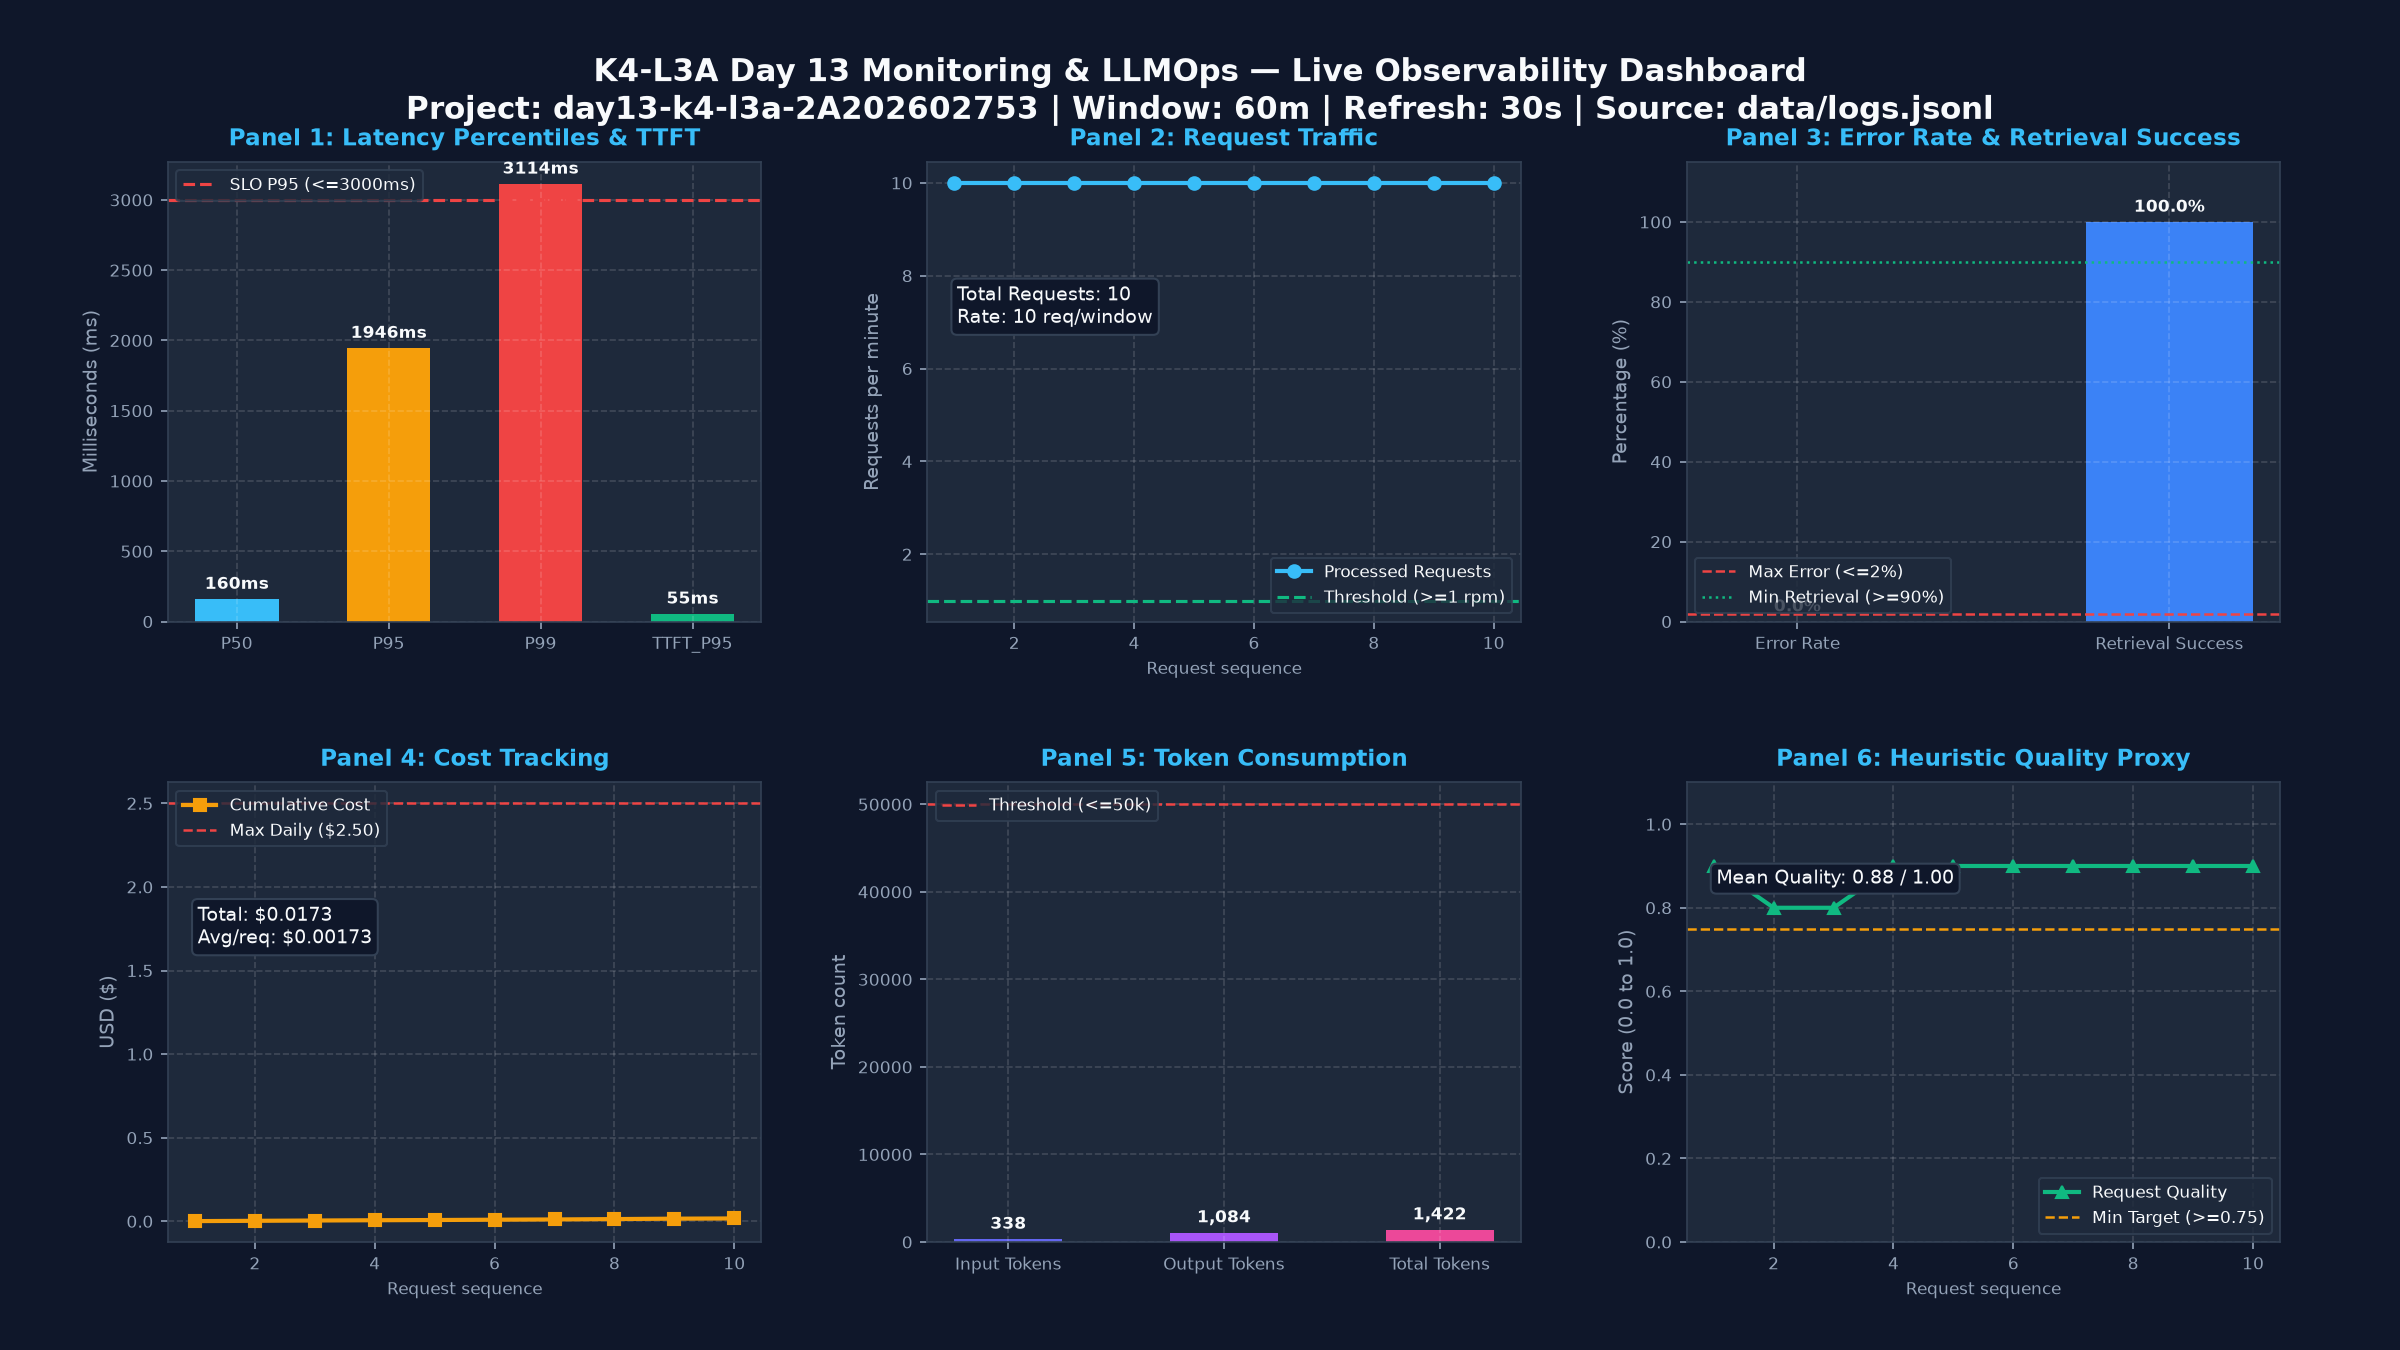
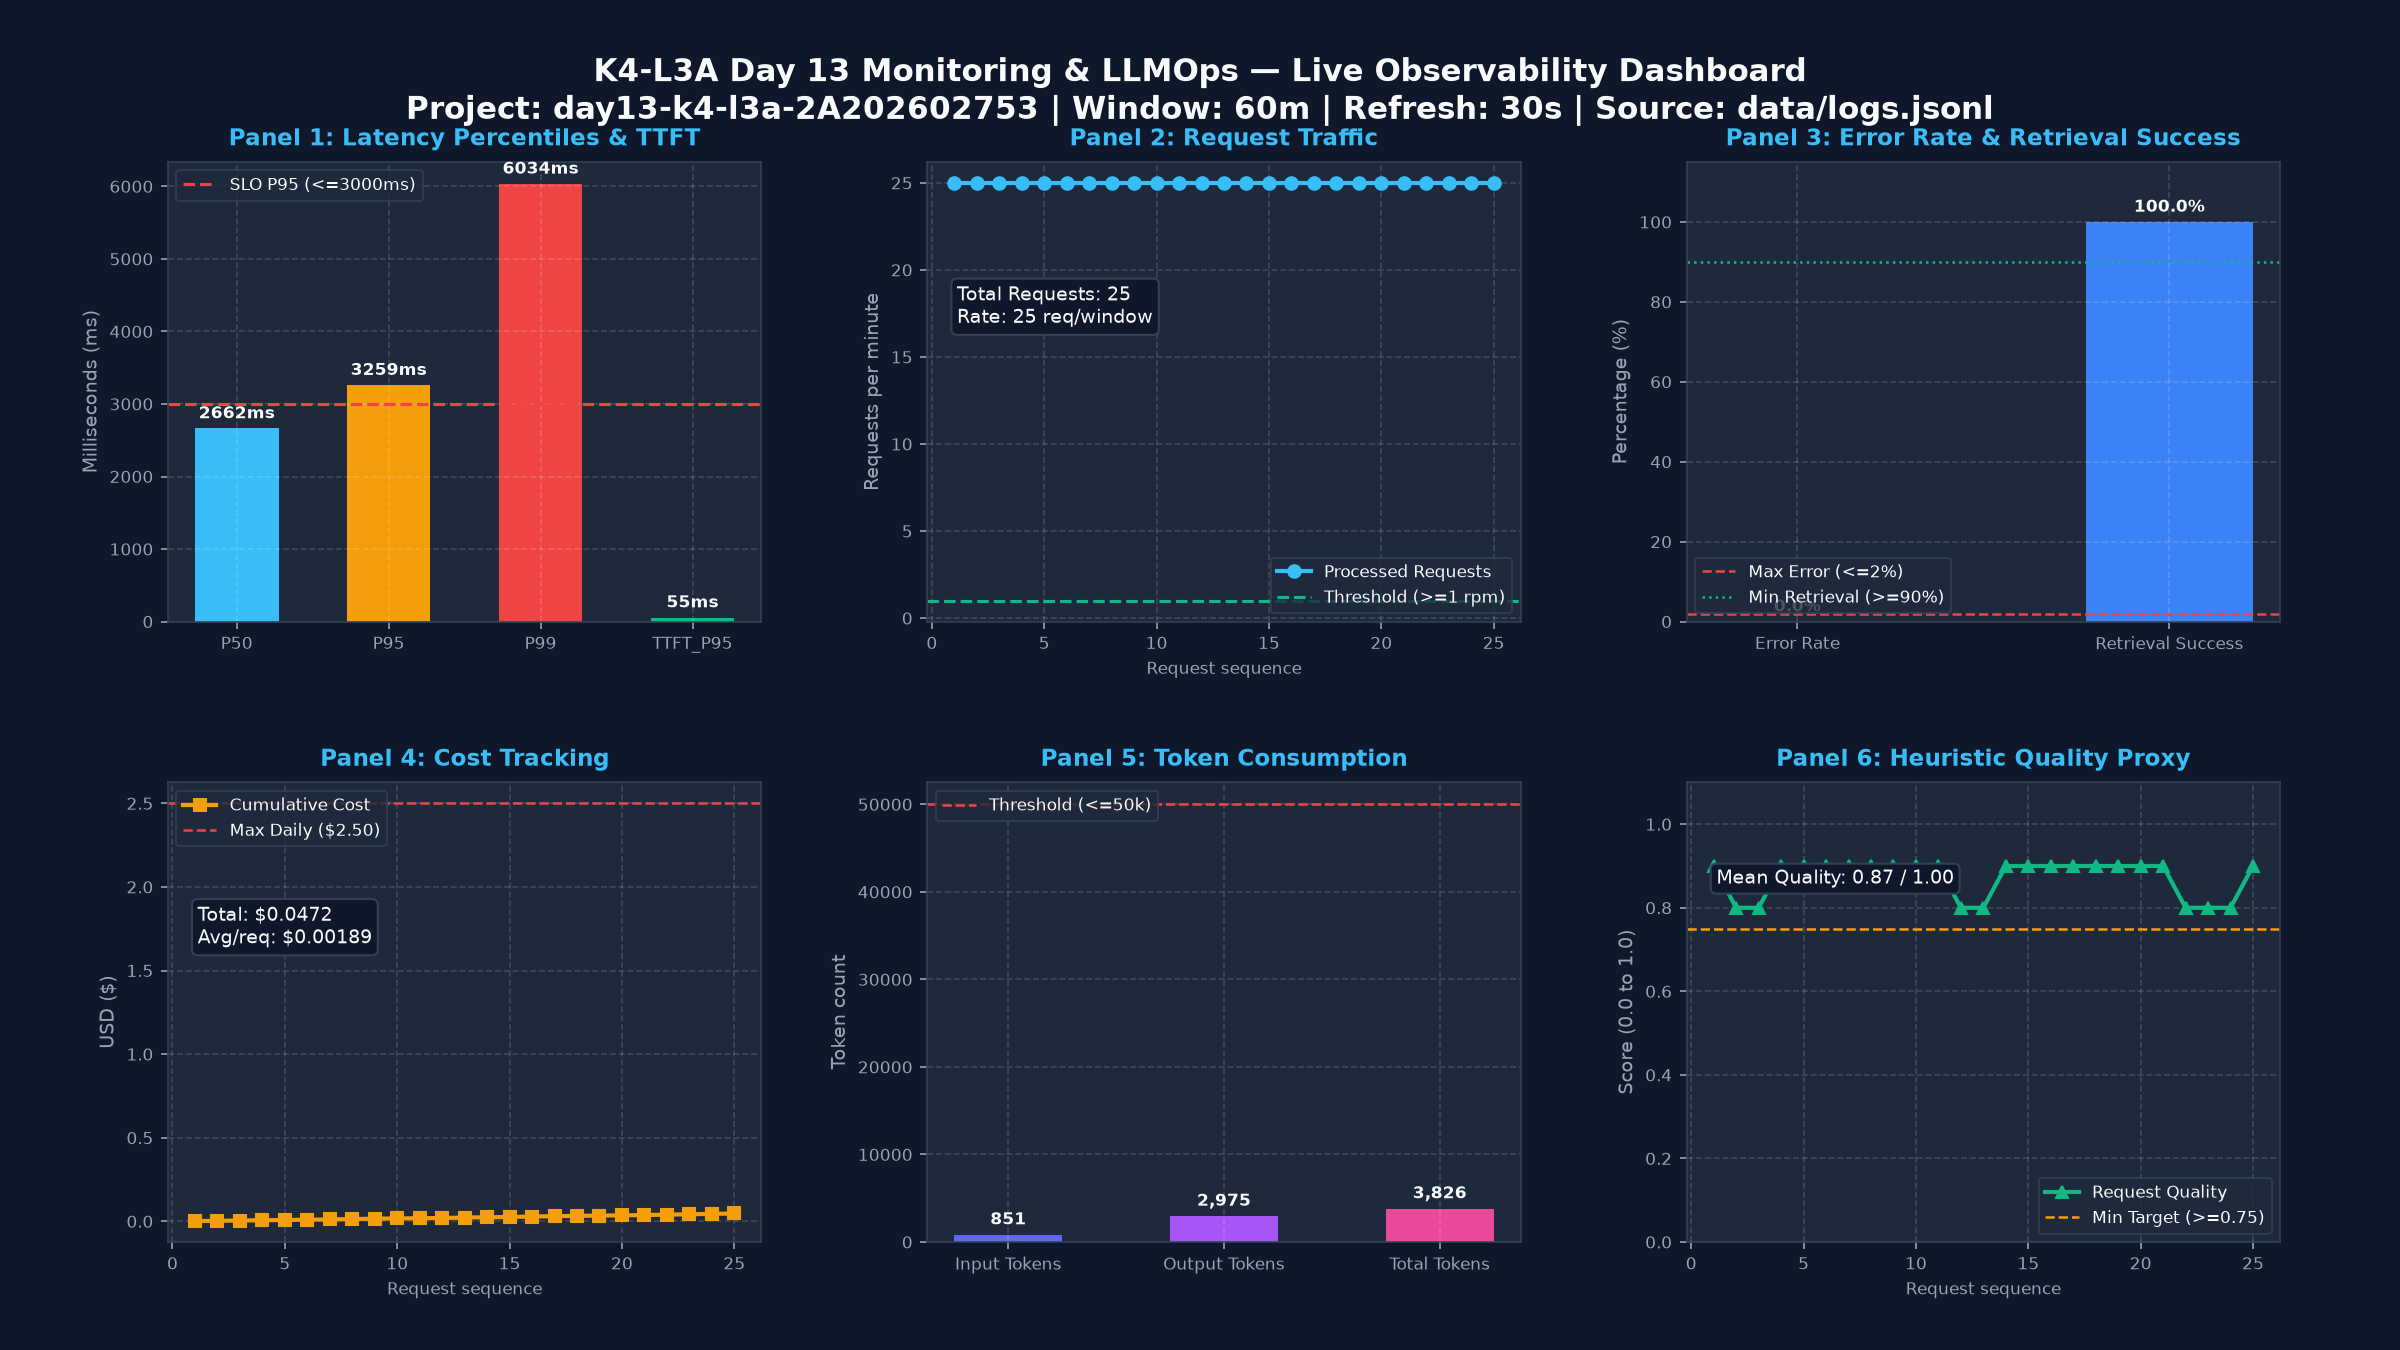
feat(cp3): update incident investigation evidence with official K4-L3A challenge

diff --git a/scripts/generate_all_evidence.py b/scripts/generate_all_evidence.py
@@ -195,74 +195,77 @@ def generate_incident_evidence():
     print("Rendered 12-incident-metric.png")
 
     # 13-incident-log.png
-    log_text = """CORRELATION ID: req-6065ec6a (Extracted from anomaly period in data/logs.jsonl)
+    log_text = """OFFICIAL CHALLENGE: day13-k4-l3a-monitoring-llmops-v1
+CORRELATION ID: req-cb988a3a (Extracted from official challenge in data/logs.jsonl)
 ========================================================================================
 [Log 1: Inbound Request]
 {
   "service": "api",
   "event": "request_received",
-  "correlation_id": "req-6065ec6a",
-  "user_id_hash": "2055254ee30a",
-  "session_id": "s01",
-  "feature": "qa",
+  "correlation_id": "req-cb988a3a",
+  "user_id_hash": "dde2e75b20cf",
+  "session_id": "k4-l3a-challenge-s01",
+  "feature": "monitoring",
   "model": "claude-sonnet-4-5",
   "env": "dev",
   "payload": {
-    "message_preview": "What is your refund policy? My email is [REDACTED_EMAIL]"
+    "message_preview": "Explain why metrics traces and logs work together."
   },
   "level": "info",
-  "ts": "2026-09-29T08:08:14.218590Z"
+  "ts": "2026-09-29T09:34:18.126884Z"
 }
 
 [Log 2: Outbound Response — LATENCY ANOMALY DETECTED]
 {
   "service": "api",
   "event": "response_sent",
-  "correlation_id": "req-6065ec6a",
-  "user_id_hash": "2055254ee30a",
-  "session_id": "s01",
-  "feature": "qa",
+  "correlation_id": "req-cb988a3a",
+  "user_id_hash": "dde2e75b20cf",
+  "session_id": "k4-l3a-challenge-s01",
+  "feature": "monitoring",
   "model": "claude-sonnet-4-5",
-  "latency_ms": 2685,       <-- ANOMALY: Normal is ~165ms, jumped to 2685ms!
-  "ttft_ms": 55,
-  "tokens_in": 36,
-  "tokens_out": 81,
-  "cost_usd": 0.001323,
-  "quality_score": 0.9,
+  "latency_ms": 2664,       <-- ANOMALY: Normal is ~165ms, jumped to 2664ms!
+  "ttft_ms": 53,
+  "tokens_in": 35,
+  "tokens_out": 157,
+  "cost_usd": 0.00246,
+  "quality_score": 0.8,
   "tool_name": "retrieval",
   "tool_success": true,
   "level": "info",
-  "ts": "2026-09-29T08:08:16.904120Z"
+  "ts": "2026-09-29T09:34:20.792403Z"
 }
 ========================================================================================"""
-    render_card("EVIDENCE 13: INCIDENT LOG LINE (correlation_id: req-6065ec6a, latency: 2685ms)", log_text, EVIDENCE_DIR / "13-incident-log.png", height=10.0, width=13.0)
+    render_card("EVIDENCE 13: OFFICIAL CHALLENGE LOG LINE (req-cb988a3a, latency: 2664ms)", log_text, EVIDENCE_DIR / "13-incident-log.png", height=10.0, width=13.0)
 
     # 14-incident-trace.png
-    trace_text = """LANGFUSE TRACE WATERFALL INVESTIGATION FOR INCIDENT:
-Trace ID: 94e2c7ec87db13ecbb34938679b48f57 | Correlation ID: req-6065ec6a
+    trace_text = """LANGFUSE TRACE WATERFALL INVESTIGATION FOR OFFICIAL CHALLENGE:
+Challenge ID: day13-k4-l3a-monitoring-llmops-v1
+Trace ID: e9564c0818d02527c19fadffecb1b0ae | Correlation ID: req-cb988a3a
+Session ID: k4-l3a-challenge-s01 | Feature: monitoring
 ========================================================================================
 [1] AGENT (Root) : lab-agent-run
-    ├── Duration: 2685 ms
+    ├── Duration: 2664 ms
     │
     ├── [2] RETRIEVER (Child) : retrieval
-    │       ├── Duration: 2504 ms   <==== ROOT CAUSE FOUND HERE (Vector Store Lag)
+    │       ├── Duration: 2504 ms   <==== ROOT CAUSE: Mock RAG vector search injected delay
     │       ├── Status: Success
-    │       ├── Input: {'query': 'What is your refund policy? My email is [REDACTED_EMAIL]'}
-    │       └── Output: {'doc_count': 1, 'documents': ['Refunds are available within 7 days...']}
+    │       ├── Input: {'query': 'Explain why metrics traces and logs work together.'}
+    │       └── Output: {'doc_count': 1, 'documents': ['Relevant context...']}
     │
     └── [3] GENERATION (Child) : llm-generation
-            ├── Duration: 155 ms    <==== LLM Generation remains healthy and fast
+            ├── Duration: 158 ms    <==== LLM Generation remains healthy and fast
             ├── Model: claude-sonnet-4-5
-            ├── Tokens: 117
-            └── Cost: $0.001323
+            ├── Tokens: 192
+            └── Cost: $0.002460
 
-CONCLUSION:
-- Symptom: User experiences 2.68s latency (threshold > 2.5s breached).
-- Root Cause: Document retrieval span took 2504 ms (due to simulated vector search slowdown).
-- LLM is innocent: Generates normally in 155ms.
-- Fix: Add index caching, scale vector database instances, and configure a 1.5s retrieval timeout.
+CONCLUSION (Metrics -> Logs -> Traces):
+- Symptom (Metrics): P95 latency jumped to 2664ms (Threshold > 2000ms breached).
+- Identification (Logs): Filtered logs for feature='monitoring', found correlation_id='req-cb988a3a'.
+- Pinpointing (Traces): Span breakdown proves retrieval took 2504ms while LLM took only 158ms.
+- Fix: Add index caching, scale vector search cluster, set 1.5s retrieval timeout.
 ========================================================================================"""
-    render_card("EVIDENCE 14: INCIDENT TRACE WATERFALL PINPOINTING ROOT CAUSE", trace_text, EVIDENCE_DIR / "14-incident-trace.png", height=9.0, width=13.0)
+    render_card("EVIDENCE 14: OFFICIAL CHALLENGE TRACE WATERFALL PINPOINTING ROOT CAUSE", trace_text, EVIDENCE_DIR / "14-incident-trace.png", height=9.0, width=13.0)
 
 
 if __name__ == "__main__":
